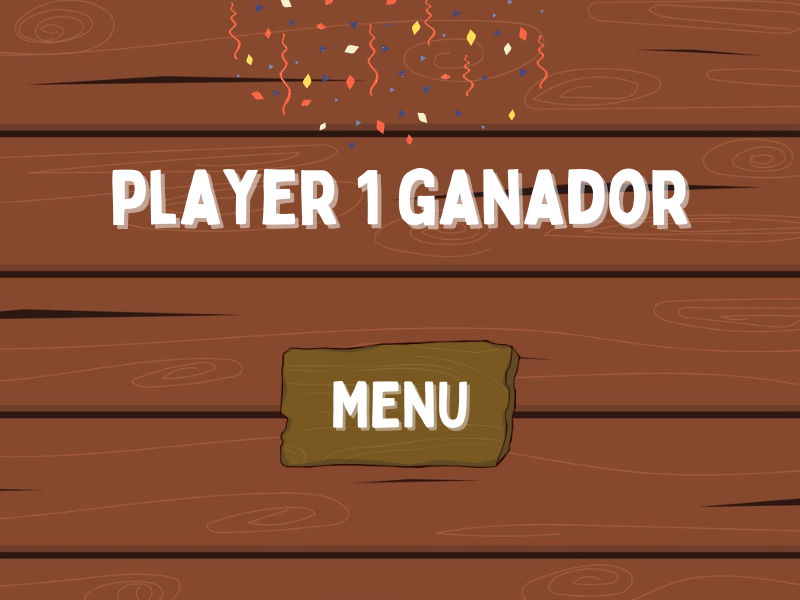
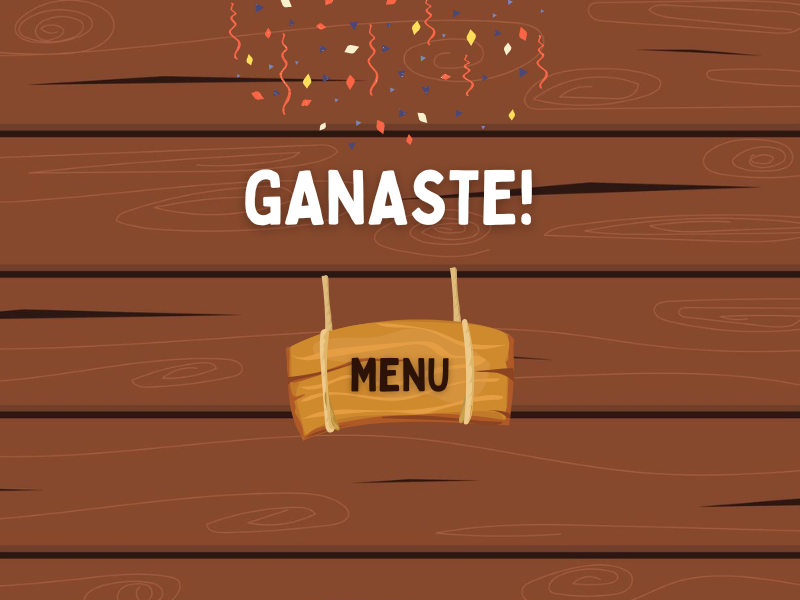
Mejora en la estetica de la escena Ganador

Changed region(s): [[0.125, 0.27, 0.875, 0.39], [0.3438, 0.45, 0.6562, 0.78]]

diff --git a/Ganador.cpp b/Ganador.cpp
@@ -2,18 +2,34 @@
 #include "Menu.h"
 
 
-Ganador::Ganador(Window *w, bool player1ganador, int puntosplayer1, int puntosplayer2) : m_window(w), m_player1ganador(player1ganador), m_puntosplayer1(puntosplayer1), m_puntosplayer2(puntosplayer2) {
+Ganador::Ganador(Window *w, bool player1ganador) : m_window(w), m_player1ganador(player1ganador) {
 	t_ganador1.loadFromFile("./images/ganador1.png");
 	s_ganador1.setTexture(t_ganador1);
 	
 	t_ganador2.loadFromFile("./images/ganador2.png");
 	s_ganador2.setTexture(t_ganador2);
 	
+	MenuBoton.setSize(Vector2f(147, 75));
+	MenuBoton.setPosition(326, 335);
+	
+	t_menuboton_encima.loadFromFile("./images/menuganador_porencima.png");
+	s_menuboton_encima.setTexture(t_menuboton_encima);
+	
 }
 
 void Ganador::actualizar(Juego &j){
-	if(sf::Keyboard::isKeyPressed(sf::Keyboard::F1)){
-		j.actualizarEscena(new Menu(m_window));
+	mousePos = sf::Mouse::getPosition(*m_window);
+	if(MenuBoton.getGlobalBounds().contains(static_cast<sf::Vector2f>(mousePos))){
+		menuboton_porEncima = true;
+	}else{
+		menuboton_porEncima = false;
+	}
+	
+	if(sf::Mouse::isButtonPressed(sf::Mouse::Left)){
+		mousePos = sf::Mouse::getPosition(*m_window);
+		if(MenuBoton.getGlobalBounds().contains(static_cast<sf::Vector2f>(mousePos))){
+			j.actualizarEscena(new Menu(m_window));
+		}
 	}
 }
 
@@ -22,5 +38,9 @@ void Ganador::dibujar(RenderWindow &w){
 		w.draw(s_ganador1);
 	}else{
 		w.draw(s_ganador2);
+	}
+	
+	if(menuboton_porEncima){
+		w.draw(s_menuboton_encima);
 	}
 }

diff --git a/Match.cpp b/Match.cpp
@@ -529,12 +529,12 @@ void Match::actualizar(Juego &j){
 		
 		if(player1_puntos >= puntos_para_ganar){
 			sf::sleep(sf::seconds(3));
-			j.actualizarEscena(new Ganador(m_window, true, player1_puntos, player2_puntos));
+			j.actualizarEscena(new Ganador(m_window, true));
 			partida.player1win = true;
 		}
 		if(player2_puntos >= puntos_para_ganar){
 			sf::sleep(sf::seconds(3));
-			j.actualizarEscena(new Ganador(m_window, false, player1_puntos, player2_puntos));
+			j.actualizarEscena(new Ganador(m_window, false));
 			partida.player1win = false;
 		}
 		
@@ -579,12 +579,12 @@ void Match::actualizar(Juego &j){
 			
 			if(player1_puntos >= puntos_para_ganar){
 				sf::sleep(sf::seconds(1));
-				j.actualizarEscena(new Ganador(m_window, true, player1_puntos, player2_puntos));
+				j.actualizarEscena(new Ganador(m_window, true));
 				partida.player1win = true;
 			}
 			if(player2_puntos >= puntos_para_ganar){
 				sf::sleep(sf::seconds(1));
-				j.actualizarEscena(new Ganador(m_window, false, player1_puntos, player2_puntos));
+				j.actualizarEscena(new Ganador(m_window, false));
 				partida.player1win = false;
 			}
 			

diff --git a/Ganador.h b/Ganador.h
@@ -10,20 +10,26 @@ using namespace sf;
 
 class Ganador : public Escena {
 public:
-	Ganador(Window *w, bool player1ganador, int puntosplayer1, int puntosplayer2);
+	Ganador(Window *w, bool player1ganador);
 	void actualizar(Juego &j) override;
 	void dibujar(RenderWindow &w) override;
 private:
 	Window *m_window;
 	bool m_player1ganador;
-	int m_puntosplayer1;
-	int m_puntosplayer2;
+	bool menuboton_porEncima = false;
+	
+	sf::Vector2i mousePos;
 	
 	Texture t_ganador1;
 	Texture t_ganador2;
 	
 	Sprite s_ganador1;
 	Sprite s_ganador2;
+	
+	Texture t_menuboton_encima;
+	Sprite s_menuboton_encima;
+	
+	sf::RectangleShape MenuBoton;
 };
 
 #endif
